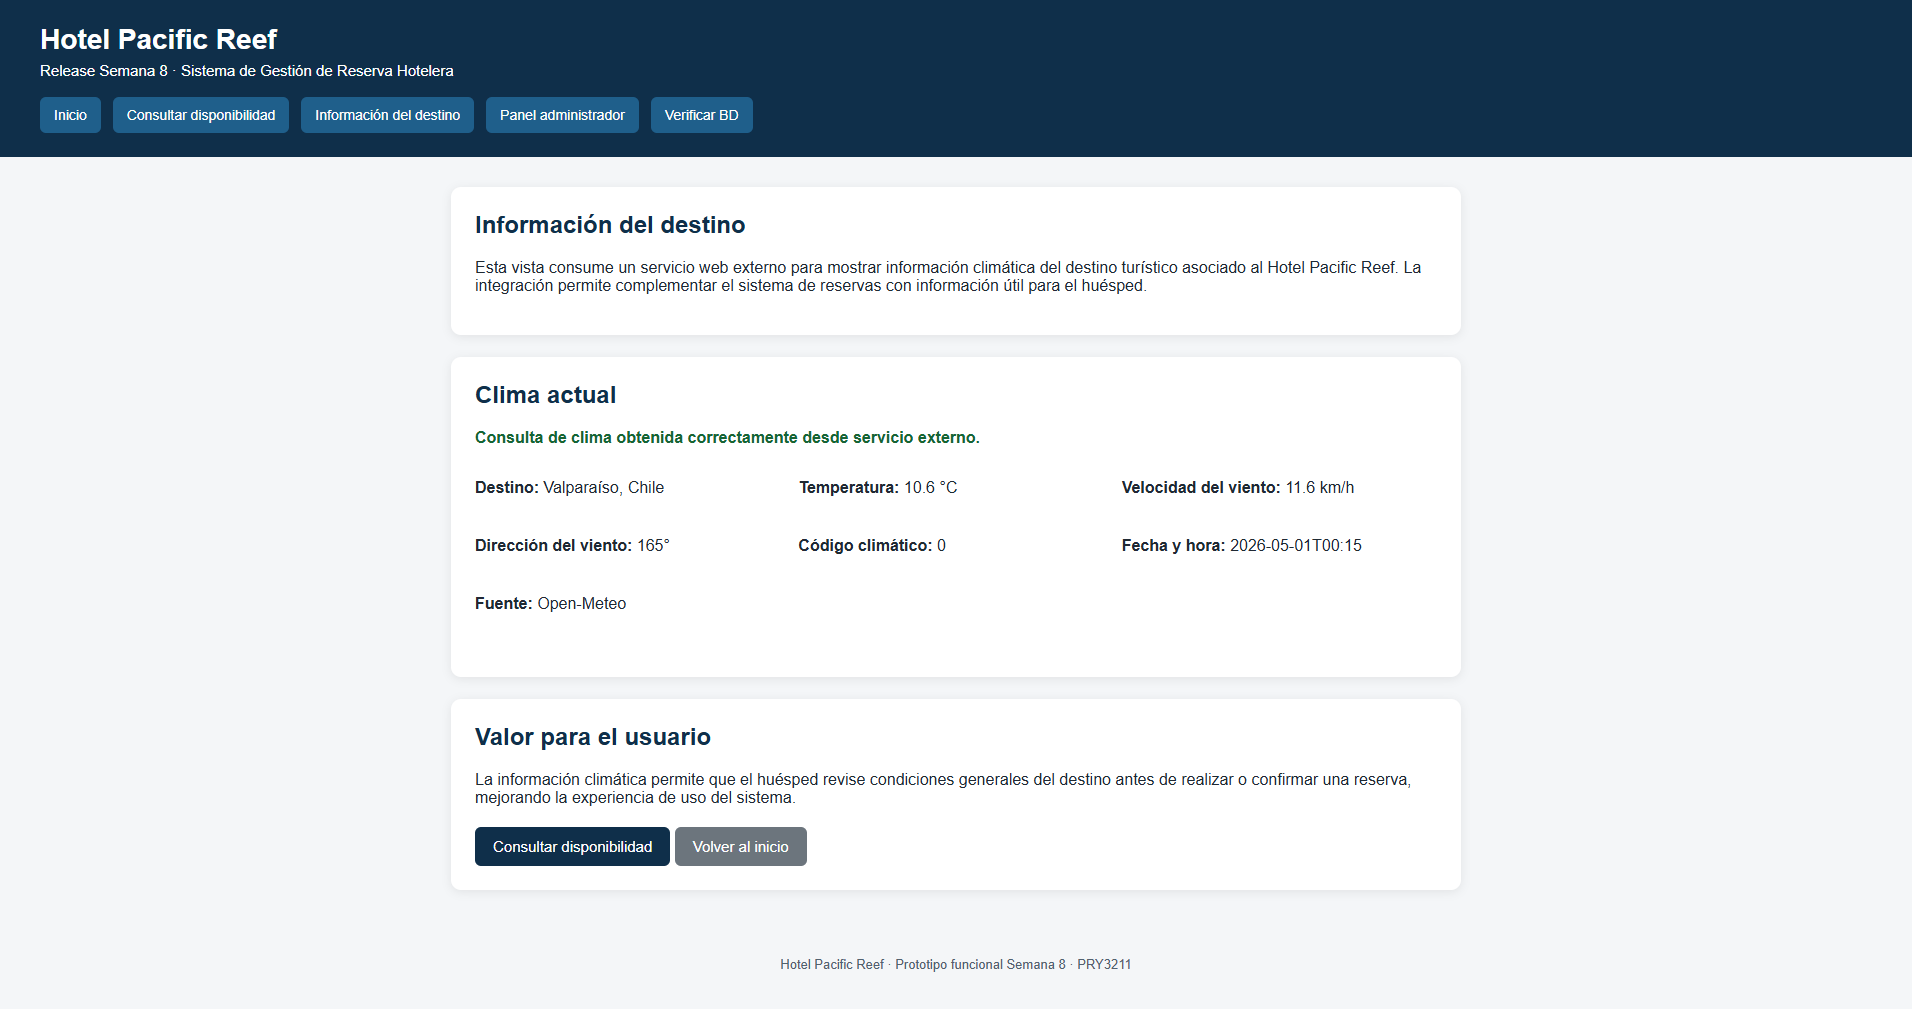
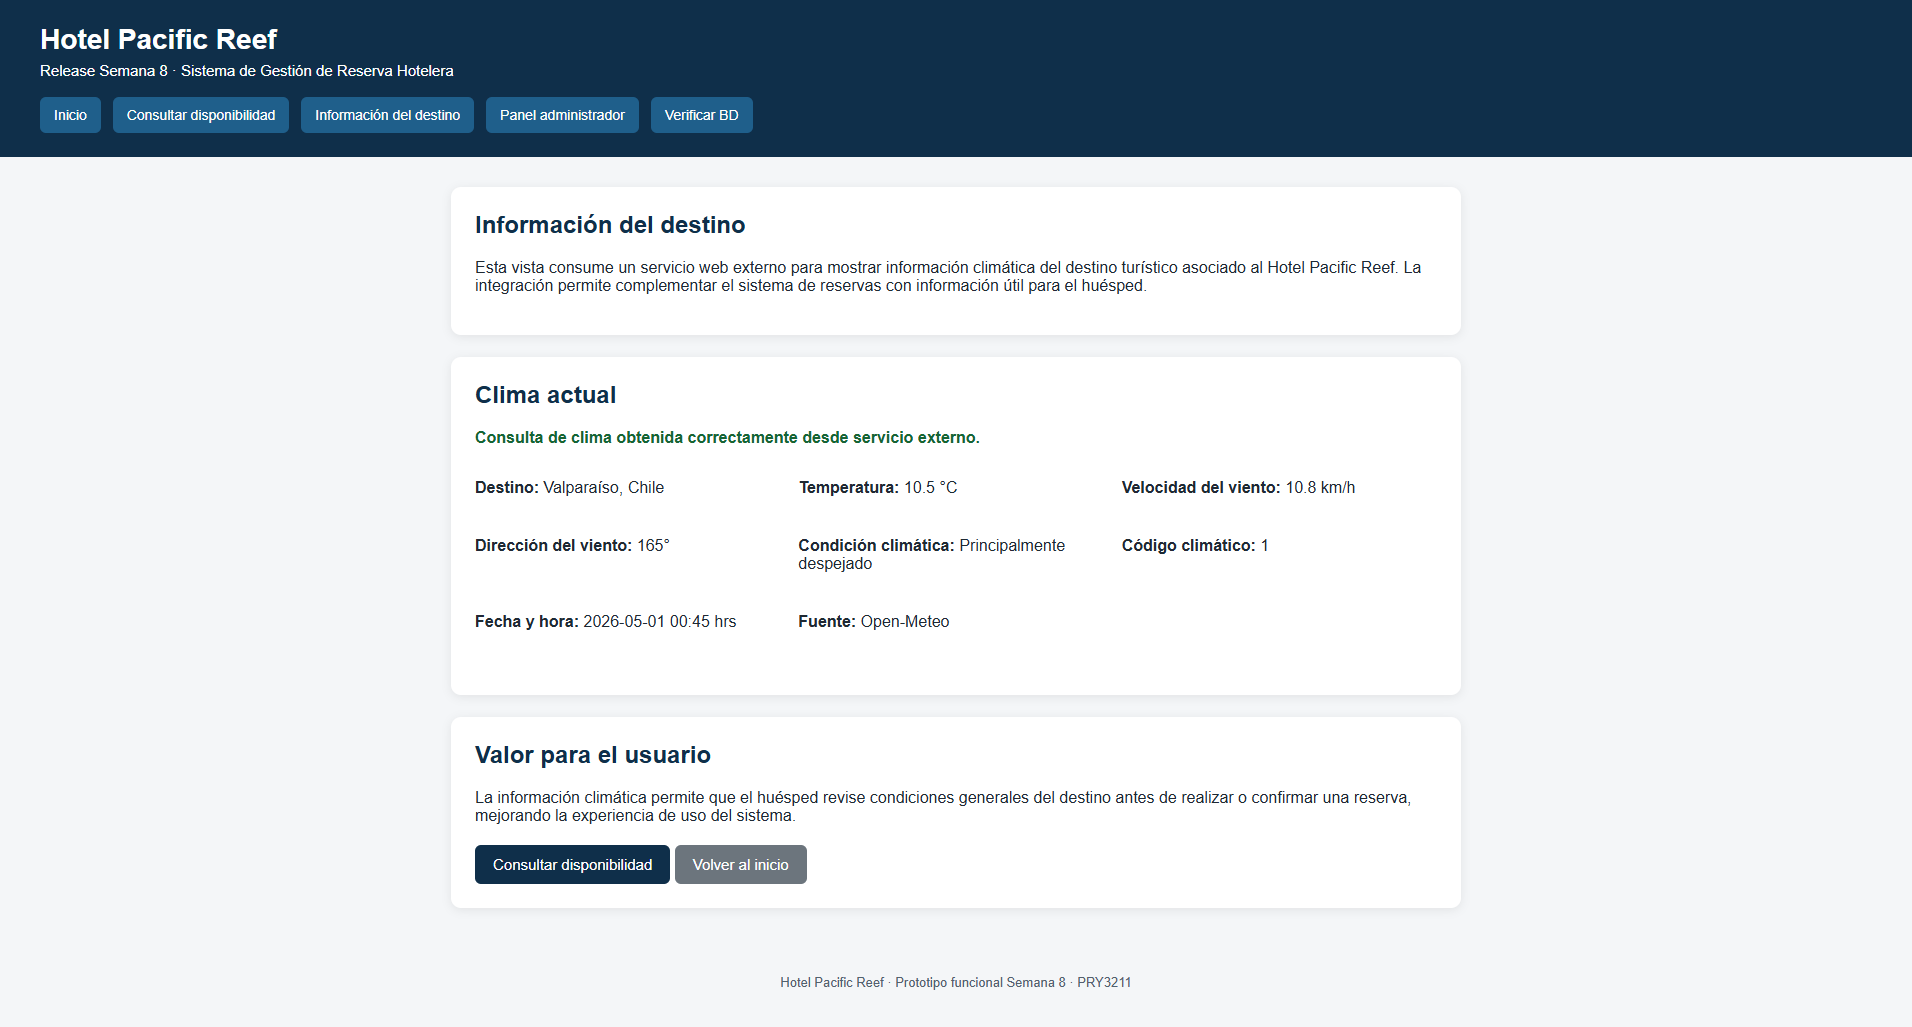
Integrar servicio web externo de clima

diff --git a/app/templates/destino.html b/app/templates/destino.html
@@ -25,6 +25,7 @@ Pacific Reef{% endblock %} {% block content %}
       <strong>Velocidad del viento:</strong> {{ clima.velocidad_viento }} km/h
     </p>
     <p><strong>Dirección del viento:</strong> {{ clima.direccion_viento }}°</p>
+    <p><strong>Condición climática:</strong> {{ clima.condicion_clima }}</p>
     <p><strong>Código climático:</strong> {{ clima.codigo_clima }}</p>
     <p><strong>Fecha y hora:</strong> {{ clima.fecha_hora }}</p>
     <p><strong>Fuente:</strong> {{ clima.fuente }}</p>

diff --git a/app/app.py b/app/app.py
@@ -31,6 +31,55 @@ def clp(value):
     except (TypeError, ValueError):
         return "$0"
 
+def traducir_codigo_clima(codigo):
+    """
+    Traduce el código climático entregado por Open-Meteo a una descripción
+    comprensible para el usuario.
+    """
+    descripciones = {
+        0: "Despejado",
+        1: "Principalmente despejado",
+        2: "Parcialmente nublado",
+        3: "Nublado",
+        45: "Niebla",
+        48: "Niebla con escarcha",
+        51: "Llovizna ligera",
+        53: "Llovizna moderada",
+        55: "Llovizna intensa",
+        56: "Llovizna helada ligera",
+        57: "Llovizna helada intensa",
+        61: "Lluvia ligera",
+        63: "Lluvia moderada",
+        65: "Lluvia intensa",
+        66: "Lluvia helada ligera",
+        67: "Lluvia helada intensa",
+        71: "Nevada ligera",
+        73: "Nevada moderada",
+        75: "Nevada intensa",
+        77: "Granos de nieve",
+        80: "Chubascos ligeros",
+        81: "Chubascos moderados",
+        82: "Chubascos violentos",
+        85: "Chubascos de nieve ligeros",
+        86: "Chubascos de nieve intensos",
+        95: "Tormenta eléctrica",
+        96: "Tormenta eléctrica con granizo ligero",
+        99: "Tormenta eléctrica con granizo intenso",
+    }
+
+    return descripciones.get(codigo, "Condición no clasificada")
+
+
+def formatear_fecha_hora_api(fecha_hora):
+    """
+    Convierte la fecha/hora entregada por la API a un formato más legible.
+    Ejemplo: 2026-05-01T00:15 -> 2026-05-01 00:15 hrs
+    """
+    if not fecha_hora:
+        return "No disponible"
+
+    return fecha_hora.replace("T", " ") + " hrs"
+
 
 def obtener_clima_destino():
     """
@@ -61,7 +110,11 @@ def obtener_clima_destino():
                 "ok": False,
                 "message": "El servicio externo respondió, pero no entregó datos de clima actual.",
                 "destino": "Valparaíso, Chile",
+                "fuente": "Open-Meteo",
             }
+
+        codigo_clima = clima_actual.get("weathercode")
+        fecha_hora = clima_actual.get("time")
 
         return {
             "ok": True,
@@ -70,8 +123,9 @@ def obtener_clima_destino():
             "temperatura": clima_actual.get("temperature"),
             "velocidad_viento": clima_actual.get("windspeed"),
             "direccion_viento": clima_actual.get("winddirection"),
-            "codigo_clima": clima_actual.get("weathercode"),
-            "fecha_hora": clima_actual.get("time"),
+            "condicion_clima": traducir_codigo_clima(codigo_clima),
+            "codigo_clima": codigo_clima,
+            "fecha_hora": formatear_fecha_hora_api(fecha_hora),
             "fuente": "Open-Meteo",
         }
 